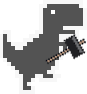
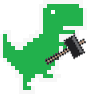
adição de um novo power up(hammer) e a locomoção nas teclas

diff --git a/dino_runner/components/game.py b/dino_runner/components/game.py
@@ -14,16 +14,19 @@ class Game:
         self.clock = pygame.time.Clock()
         self.playing = False
         self.executing = False
+
         self.game_speed = 20
         self.x_pos_bg = 0
         self.y_pos_bg = -12
+
         self.life_count = 3
+
         self.current_score = 0
         self.max_score = 0
-        self.contador = 0 #SpaceBar animation
         self.salvador = 0
         self.lista_score = []
-        
+
+        self.contador = 0 #SpaceBar animation
         
         self.player = Dinosaur()
         self.obstacle_manager = ObstacleManager()
@@ -56,11 +59,10 @@ class Game:
 
     def game_continue(self):
         self.obstacle_manager.reset_obstacle()
-        self.player.dino_jump = False
+        self.player.dino_rect.x = 10
 
     def reset_game(self):
         self.obstacle_manager.reset_obstacle()
-        self.player.dino_jump = False
         self.game_speed = 20
         self.current_score = 0
         self.life_count = 3
@@ -78,7 +80,7 @@ class Game:
         self.obstacle_manager.update(self)
         self.power_up_manager.update(self)
         self.update_score()
-        self.draw_power_up_time()
+        
 
     def update_contador(self):
         self.contador += 1  #spaceBar animation
@@ -111,23 +113,42 @@ class Game:
 
         self.power_up_manager.draw(self.screen)
         self.obstacle_manager.draw(self.screen)
-        
+        self.draw_power_up_time()
 
         pygame.display.flip()
 
+
+
     def draw_power_up_time(self):
-         if self.player.has_power_up:
+        if self.player.has_power_up or self.player.has_hammer:
             time_to_show = round((self.player.power_up_time_up - pygame.time.get_ticks())/1000, 2)
             if time_to_show >=0:
                 font = pygame.font.Font(FONT_STYLE, 22)
-                text = font.render(f"Power Up: {time_to_show}", True, (255,0,0))
+                text = font.render(f"Power Up: {time_to_show}", True, (85,85,85))
                 text_rect = text.get_rect()
                 text_rect.x = 425
                 text_rect.y = 100
                 self.screen.blit(text, text_rect)
             else:
-                self.player.has_power_up = False
+                if self.player.has_power_up:
+                    self.player.has_power_up = False
+                elif self.player.has_hammer:
+                    self.player.has_hammer = False
                 self.player.type = DEFAULT_TYPE
+
+
+        # if self.player.has_hammer:
+        #     time_to_show = round((self.player.power_up_time_up - pygame.time.get_ticks())/1000, 2)
+        #     if time_to_show >=0:
+        #         font = pygame.font.Font(FONT_STYLE, 22)
+        #         text = font.render(f"Power Up: {time_to_show}", True, (255,0,0))
+        #         text_rect = text.get_rect()
+        #         text_rect.x = 425
+        #         text_rect.y = 100
+        #         self.screen.blit(text, text_rect)
+        #     else:
+        #         self.player.has_hammer = False
+        #         self.player.type = DEFAULT_TYPE
 
     def drawn_score(self):
         self.text_score = (f"HI    {self.max_score}     {self.current_score}")

diff --git a/dino_runner/components/dinosaur.py b/dino_runner/components/dinosaur.py
@@ -1,10 +1,10 @@
 import pygame
 
-from dino_runner.utils.constants import RUNNING, JUMPING, DUCKING, SONGS,  DEFAULT_TYPE,SHIELD_TYPE, DUCKING_SHIELD, JUMPING_SHIELD, RUNNING_SHIELD
+from dino_runner.utils.constants import RUNNING, JUMPING, DUCKING, SONGS,  DEFAULT_TYPE,SHIELD_TYPE, DUCKING_SHIELD, JUMPING_SHIELD, RUNNING_SHIELD, HAMMER_TYPE, DUCKING_HAMMER, JUMPING_HAMMER, RUNNING_HAMMER, SCREEN_WIDTH
 
-DUCK_IMG = {DEFAULT_TYPE: DUCKING, SHIELD_TYPE: DUCKING_SHIELD}
-JUMP_IMG = {DEFAULT_TYPE: JUMPING, SHIELD_TYPE:JUMPING_SHIELD}
-RUN_IMG = {DEFAULT_TYPE: RUNNING, SHIELD_TYPE:RUNNING_SHIELD}
+DUCK_IMG = {DEFAULT_TYPE: DUCKING, SHIELD_TYPE: DUCKING_SHIELD, HAMMER_TYPE: DUCKING_HAMMER}
+JUMP_IMG = {DEFAULT_TYPE: JUMPING, SHIELD_TYPE:JUMPING_SHIELD, HAMMER_TYPE: JUMPING_HAMMER}
+RUN_IMG = {DEFAULT_TYPE: RUNNING, SHIELD_TYPE:RUNNING_SHIELD, HAMMER_TYPE: RUNNING_HAMMER}
 
 X_POS = 80
 Y_POS = 310
@@ -26,6 +26,7 @@ class Dinosaur:
         self.jump_vel = JUMP_VEL
 
         self.has_power_up = False
+        self.has_hammer = False
 
         self.jump_song = SONGS[1]
         self.jump_song.set_volume(0.05)
@@ -56,7 +57,8 @@ class Dinosaur:
         self.dino_rect.y =  Y_DUCK
         self.step_index += 1
 
-        self.dino_duck = False       
+        self.dino_duck = False
+           
     
     
     def update(self, user_input):
@@ -64,12 +66,27 @@ class Dinosaur:
             self.dino_jump = True
             self.dino_run = False
             self.jump_song.play()
-        elif not self.dino_jump:
-            self.dino_run = True
-        if (user_input[pygame.K_DOWN] or user_input[pygame.K_LSHIFT] or user_input[pygame.K_s]) and not self.dino_jump:
+       
+        elif (user_input[pygame.K_DOWN] or user_input[pygame.K_LSHIFT] or user_input[pygame.K_s]) and not self.dino_jump:
             self.dino_duck = True
             self.dino_run = False
-                   
+
+        elif not self.dino_jump:
+            self.dino_run = True
+
+        elif(user_input[pygame.K_DOWN] or user_input[pygame.K_LSHIFT] or user_input[pygame.K_s]) and self.dino_jump:
+            self.jump_vel -=2
+
+        if user_input[pygame.K_RIGHT]:
+            self.dino_rect.x +=10
+            if self.dino_rect.x >= SCREEN_WIDTH-100:
+                self.dino_rect.x = SCREEN_WIDTH-100
+            
+        elif user_input[pygame.K_LEFT]:
+            self.dino_rect.x -=10
+            if self.dino_rect.x <= 0:
+                self.dino_rect.x = 0
+
         if self.dino_run:
             self.run()
         elif self.dino_jump:
@@ -79,6 +96,8 @@ class Dinosaur:
             
         if self.step_index >= 10:
             self.step_index = 0
+            
+        
     
     def draw(self, screen):
         screen.blit(self.image, (self.dino_rect.x,self.dino_rect.y))

diff --git a/dino_runner/components/power_ups/power_up_manager.py b/dino_runner/components/power_ups/power_up_manager.py
@@ -2,36 +2,44 @@ import random
 import pygame
 
 from dino_runner.components.power_ups.shield import Shield
+from dino_runner.components.power_ups.hammer import hammer
 
 class PowerUpManager:
     def __init__(self):
         self.power_ups = []
-        self.when_appears = 600
+        self.when_appears = 400
     
     def generate_power_up(self, current_score):
         if len(self.power_ups) == 0 and self.when_appears == current_score:
-            self.when_appears += random.randint(600,700)
-            self.power_ups.append(Shield())
+            self.sorteador = random.randint(0,1)
+            self.when_appears += random.randint(400,500)
+            if self.sorteador == 0:
+                self.power_ups.append(Shield())
+            elif self.sorteador== 1:
+                self.power_ups.append(hammer())
             
     def update(self, game):
         self.generate_power_up(game.current_score)
-        
         for power_up in self.power_ups:
             power_up.update(game.game_speed, self.power_ups)
             
             player = game.player
             if player.dino_rect.colliderect(power_up.rect):
                 power_up.start_time = pygame.time.get_ticks()
-                player.shield = True
-                player.has_power_up = True
+                if self.sorteador == 0:
+                    player.shield = True
+                    player.has_power_up = True
+                if self.sorteador == 1:
+                    player.hammer = True
+                    player.has_hammer = True
                 player.type = power_up.type #tipo de image que estaria utilizando
                 player.power_up_time_up = power_up.start_time + (power_up.duration * 1000)
                 self.power_ups.remove(power_up)
-                
+
     def draw(self, screen):
         for power_up in self.power_ups:
             power_up.draw(screen)
     
     def reset_power_ups(self):
         self.power_ups.clear()
-        self.when_appears = random.randint(600,700)# es necessario esto?
+        self.when_appears = random.randint(400,500)# es necessario esto?

diff --git a/dino_runner/components/obstacles/obstacle_manager.py b/dino_runner/components/obstacles/obstacle_manager.py
@@ -8,11 +8,13 @@ from dino_runner.utils.constants import SMALL_CACTUS, LARGE_CACTUS, BIRD, SONGS
 class ObstacleManager:
     def __init__(self):
         self.obstacles = []
-         
-    
-    def update(self, game):
         self.sorteador = random.randint(0,2)
         self.sorteador2 = random.randint(0,2)
+        
+    def update(self, game):
+        if len(self.obstacles) ==0:
+            self.sorteador = random.randint(0,2)
+            self.sorteador2 = random.randint(0,2)
         if self.sorteador == 0 and len(self.obstacles) == 0:  
             self.obstacles.append(Cactus(SMALL_CACTUS, 325))
         if self.sorteador == 1 and len(self.obstacles) == 0:
@@ -24,28 +26,27 @@ class ObstacleManager:
                 self.obstacles.append(Bird(BIRD, 270))
             if self.sorteador2 == 2:
                 self.obstacles.append(Bird(BIRD, 320))
-          
         for obstacle in self.obstacles:
             obstacle.update(game.game_speed, self.obstacles)
             
             if game.player.dino_rect.colliderect(obstacle.rect):
-                if not game.player.has_power_up:
+                if game.player.has_power_up == True:
+                    self.obstacles.remove(obstacle) 
+                elif game.player.has_hammer and (self.sorteador==0 or self.sorteador==1):
+                    self.obstacles.remove(obstacle)  
+
+                else:   
                     pygame.time.delay(500)
                     SONGS[2].set_volume (0.60)
                     SONGS[2].play()
                     game.playing = False
                     game.life_count-=1
                     break
-                else:
-                    self.obstacles.remove(obstacle)         
-        
-    
     def draw(self, screen):
         for obstacle in self.obstacles:
             obstacle.draw(screen)
 
     def reset_obstacle(self):
         self.obstacles.clear()
-        
 
 

diff --git a/dino_runner/components/power_ups/shield.py b/dino_runner/components/power_ups/shield.py
@@ -1,4 +1,4 @@
-from dino_runner.utils.constants import SHIELD, SHIELD_TYPE #SHIELD_Type seria inecessario
+from dino_runner.utils.constants import SHIELD, SHIELD_TYPE 
 from dino_runner.components.power_ups.power_up import PowerUp
 
 class Shield(PowerUp):

diff --git a/dino_runner/components/power_ups/hammer.py b/dino_runner/components/power_ups/hammer.py
@@ -1,0 +1,6 @@
+from dino_runner.utils.constants import HAMMER, HAMMER_TYPE
+from dino_runner.components.power_ups.power_up import PowerUp
+
+class hammer(PowerUp):
+    def __init__(self):
+        super().__init__(HAMMER, HAMMER_TYPE)

diff --git a/dino_runner/utils/constants.py b/dino_runner/utils/constants.py
@@ -13,6 +13,7 @@ pygame.mixer.init()
 
 DEFAULT_TYPE = "default"
 SHIELD_TYPE = "shield"
+HAMMER_TYPE = "hammer"
 
 # Assets Constants
 ICON = pygame.image.load(os.path.join(IMG_DIR, "DinoWallpaper.png"))
